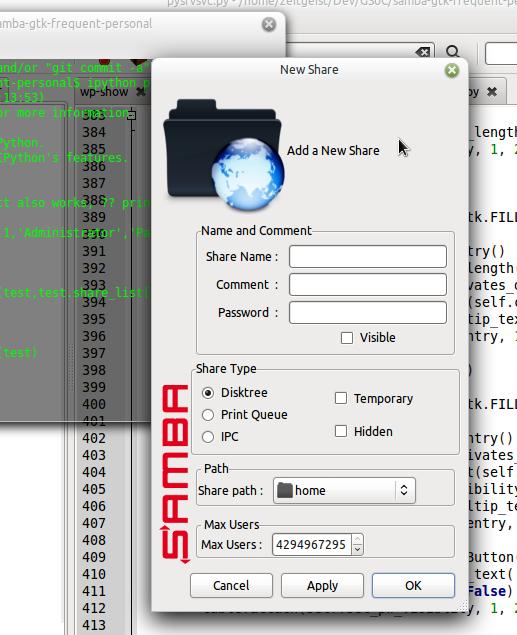
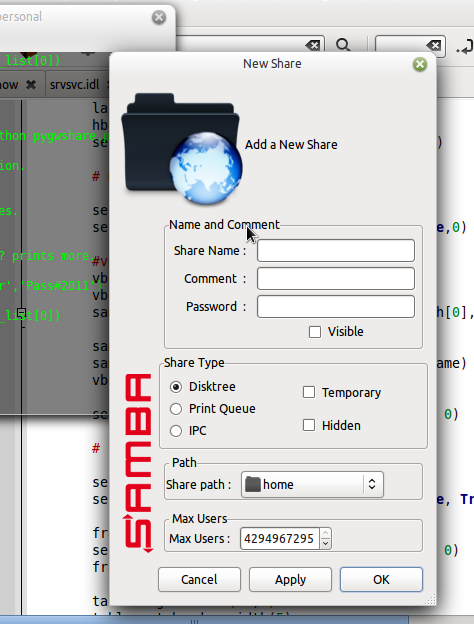
gui align fixes

diff --git a/pysrvsvc.py b/pysrvsvc.py
@@ -343,6 +343,7 @@ class ShareAddEditDialog(gtk.Dialog):
 
         #vertical logo
         vbox = gtk.VBox()
+        vbox.set_border_width(5)
         samba_image_filename = os.path.join(sys.path[0], 'images',
                 'samba-logo-vertical.png')
         samba_image = gtk.Image()
@@ -590,6 +591,7 @@ class DeleteDialog(gtk.Dialog):
 
         #vertical logo
         vbox = gtk.VBox()
+        vbox.set_border_width(5)
         samba_image_filename = os.path.join(sys.path[0], 'images',
                 'samba-logo-vertical.png')
         samba_image = gtk.Image()
